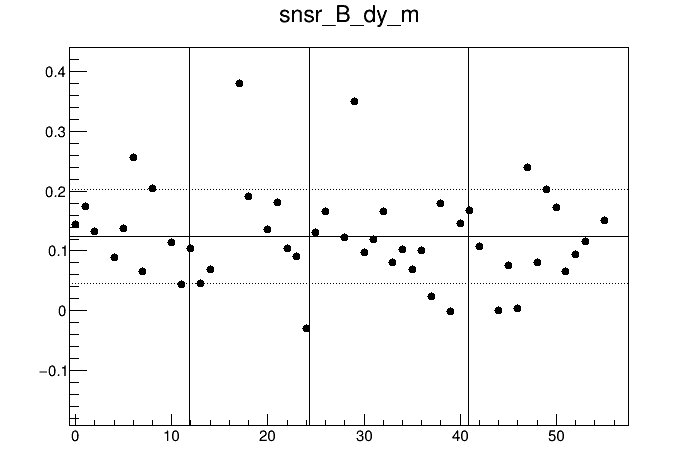
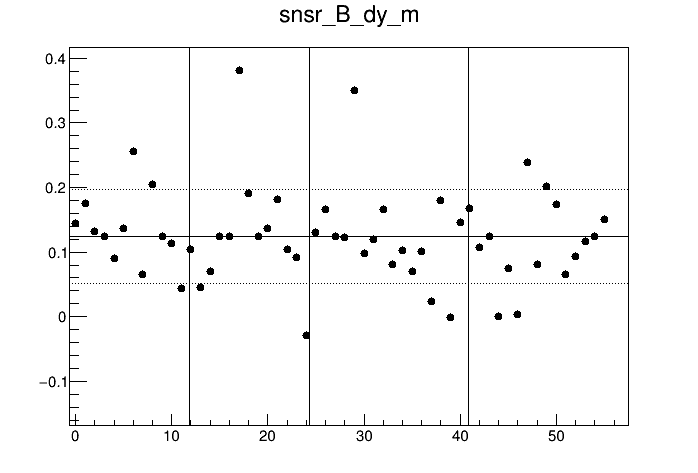
Sample Text

diff --git a/write_transforms.cc b/write_transforms.cc
@@ -13,16 +13,121 @@ void write_transforms()
 	float dy_m;	transforms_tree->SetBranchStatus("dy_m", 1);	transforms_tree->SetBranchAddress("dy_m", &dy_m);
 	float dz_m;	transforms_tree->SetBranchStatus("dz_m", 1);	transforms_tree->SetBranchAddress("dz_m", &dz_m);
 
-	FILE* file;
-	file = fopen("intt_transforms.txt", "w");
+	std::map<std::string, std::tuple<bool*, float*, float*, float*, float*, float*, float*>> m =
+	{
+		{"snsr_A", {new bool(false), new float(0.0), new float(0.0), new float(0.0), new float(0.0), new float(0.0), new float(0.0)}},
+		{"snsr_B", {new bool(false), new float(0.0), new float(0.0), new float(0.0), new float(0.0), new float(0.0), new float(0.0)}},
+		{"snsr_C", {new bool(false), new float(0.0), new float(0.0), new float(0.0), new float(0.0), new float(0.0), new float(0.0)}},
+		{"snsr_D", {new bool(false), new float(0.0), new float(0.0), new float(0.0), new float(0.0), new float(0.0), new float(0.0)}},
+	};
 
-	fprintf(file, "%s\t\t%s\t\t%s\t\t%s\n", "Name", "x (mm)", "y (mm)", "z (mm)");
+	for(auto itr = m.begin(); itr != m.end(); ++itr)
+	{
+		*std::get<1>(itr->second) = 0;
+		*std::get<4>(itr->second) = 0;
+		*std::get<5>(itr->second) = 0;
+		*std::get<6>(itr->second) = 0;
+	}
+
+	Long64_t N = 0;
 	for(Long64_t n = 0; n < transforms_tree->GetEntriesFast(); ++n)
 	{
 		transforms_tree->GetEntry(n);
 
-		if(!(n % 4))fprintf(file, "\n%s\n", name.substr(0, 6).c_str());
-		fprintf(file, "\t%s\t%+11.8f\t%+11.8f\t%+13.8f\n", name.substr(7).c_str(), dx_m, dy_m, dz_m);
+		//bad point--we are ommitting it
+		if(name.find("B1L114") != std::string::npos)continue;
+
+		for(auto itr = m.begin(); itr != m.end(); ++itr)
+		{
+			if(name.find(itr->first) == std::string::npos)continue;
+
+			*std::get<1>(itr->second) += 1.0;
+			*std::get<4>(itr->second) += dx_m;
+			*std::get<5>(itr->second) += dy_m;
+			*std::get<6>(itr->second) += dz_m;
+		}
+	}
+	for(auto itr = m.begin(); itr != m.end(); ++itr)
+	{
+		*std::get<4>(itr->second) /= *std::get<1>(itr->second);
+		*std::get<5>(itr->second) /= *std::get<1>(itr->second);
+		*std::get<6>(itr->second) /= *std::get<1>(itr->second);
+
+		std::cout << itr->first << std::endl;
+		std::cout << "\taverage x:\t" << *std::get<4>(itr->second) << std::endl;
+		std::cout << "\taverage y:\t" << *std::get<5>(itr->second) << std::endl;
+		std::cout << "\taverage z:\t" << *std::get<6>(itr->second) << std::endl;
+	}
+
+	FILE* file;
+	file = fopen("intt_transforms.txt", "w");
+
+	fprintf(file, "%s\t\t%s\t\t%s\t\t%s\n", "Name", "x (mm)", "y (mm)", "z (mm)");
+	bool b;
+	char buff[16];
+	std::string temp;
+	int ladder;
+	int ladders[4] = {12, 12, 16, 16};
+	for(int lyr = 0; lyr < 4; ++lyr)
+	{
+		for(int ldr = 0; ldr < ladders[lyr]; ++ldr)
+		{
+			sprintf(buff, "B%dL%03d", lyr / 2, (lyr % 2) * 100 + ldr);
+			temp = buff;
+
+			for(auto itr = m.begin(); itr != m.end(); ++itr)
+			{
+				*std::get<0>(itr->second) = false;
+				*std::get<1>(itr->second) = *std::get<4>(itr->second);
+				*std::get<2>(itr->second) = *std::get<5>(itr->second);
+				*std::get<3>(itr->second) = *std::get<6>(itr->second);
+			}
+
+			for(Long64_t n = 0; n < transforms_tree->GetEntriesFast(); ++n)
+			{
+				transforms_tree->GetEntry(n);
+
+				//bad point--we are ommitting it
+				if(name.find("B1L114") != std::string::npos)continue;
+				if(name.find(temp) == std::string::npos)continue;
+
+				for(auto itr = m.begin(); itr != m.end(); ++itr)
+				{
+					if(name.find(itr->first) == std::string::npos)continue;
+
+					*std::get<0>(itr->second) = true;
+					*std::get<1>(itr->second) = dx_m;
+					*std::get<2>(itr->second) = dy_m;
+					*std::get<3>(itr->second) = dz_m;
+				}
+			}
+
+			b = true;
+
+			for(auto itr = m.begin(); itr != m.end(); ++itr)
+			{
+				b = b and *std::get<0>(itr->second);
+			}
+			
+			if(b)
+			{
+				fprintf(file, "\n%s\n", temp.c_str());
+				for(auto itr = m.begin(); itr != m.end(); ++itr)
+				{
+					fprintf(file, "\t%s\t%+11.8f\t%+11.8f\t%+13.8f\n", itr->first.c_str(), *std::get<1>(itr->second), *std::get<2>(itr->second), *std::get<3>(itr->second));
+				}
+			}
+			else
+			{
+				fprintf(file, "\n%s (Data missing--using mean values)\n", temp.c_str());
+				for(auto itr = m.begin(); itr != m.end(); ++itr)
+				{
+					fprintf(file, "\t%s\t%+11.8f\t%+11.8f\t%+13.8f\n", itr->first.c_str(), *std::get<4>(itr->second), *std::get<5>(itr->second), *std::get<6>(itr->second));
+				}
+			}
+
+			
+		}
 	}
 
 	fclose(file);

diff --git a/draw_scatterplots.cc b/draw_scatterplots.cc
@@ -80,23 +80,53 @@ void draw_scatterplots()
 			std::cout << "\t\t\ts:\t" << s << std::endl;
 		}
 
-		for(Long64_t n = 0; n < tree->GetEntriesFast(); ++n)
-		{
-			tree->GetEntry(n);
-
-			//bad point--OGP machine failed to find one of the crosses
-			if(name.find("B1L114") != std::string::npos)continue;
-			//if(name.find(*lddr) == std::string::npos)continue;
-			if(name.find(*snsr) == std::string::npos)continue;
-
-			for(auto par = params.begin(); par != params.end(); ++par)
+		bool b;
+		char buff[16];
+		std::string temp;
+		int ladder;
+		int ladders[4] = {12, 12, 16, 16};
+		for(int lyr = 0; lyr < 4; ++lyr)
+		{	
+			ladder = 0;
+			for(int i = 0; i < lyr; ++i)
 			{
-				*std::get<3>(par->second) = std::stoi(name.substr(4, 2));
-				for(auto lddr = ladders.begin(); lddr != ladders.end(); ++lddr)
+				ladder += ladders[i];
+			}
+			for(int ldr = 0; ldr < ladders[lyr]; ++ldr)
+			{
+
+				sprintf(buff, "B%dL%03d", lyr / 2, (lyr % 2 * 100) + ldr);
+				temp = buff;
+				std::cout << temp << std::endl;
+
+				for(auto par = params.begin(); par != params.end(); ++par)
 				{
-					if(name.find(lddr->first) != std::string::npos)*std::get<3>(par->second) += lddr->second;
+					*std::get<3>(par->second) = ladder + ldr;
+					b = true;
+					for(Long64_t n = 0; n < tree->GetEntriesFast(); ++n)
+					{
+						tree->GetEntry(n);
+
+						if(name.find(temp) == std::string::npos)continue;
+
+						//bad point--OGP machine failed to find one of the crosses
+						if(name.find("B1L114") != std::string::npos)continue;
+						//if(name.find(*lddr) == std::string::npos)continue;
+						if(name.find(*snsr) == std::string::npos)continue;
+
+						//*std::get<3>(par->second) = std::stoi(name.substr(4, 2));
+						//for(auto lddr = ladders.begin(); lddr != ladders.end(); ++lddr)
+						//{
+						//	if(name.find(lddr->first) != std::string::npos)*std::get<3>(par->second) += lddr->second;
+						//}
+
+						std::get<4>(par->second)->AddPoint(*std::get<3>(par->second), *std::get<0>(par->second));
+						b = false;
+						break;
+					}
+
+					if(b)std::get<4>(par->second)->AddPoint(*std::get<3>(par->second), *std::get<1>(par->second));
 				}
-				std::get<4>(par->second)->AddPoint(*std::get<3>(par->second), *std::get<0>(par->second));
 			}
 		}
 
